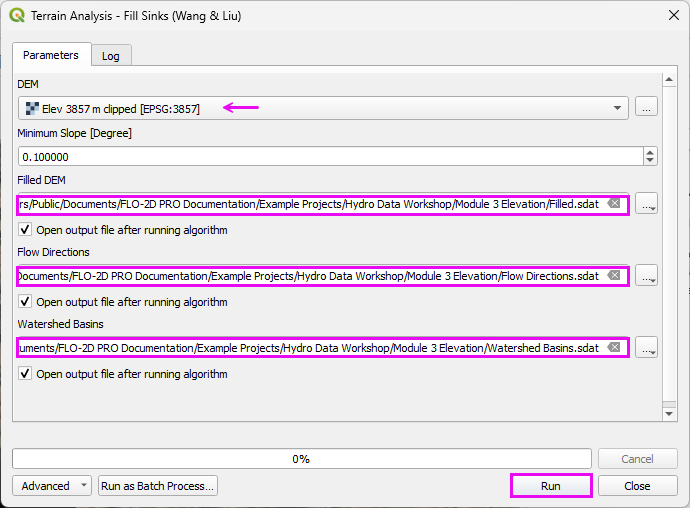
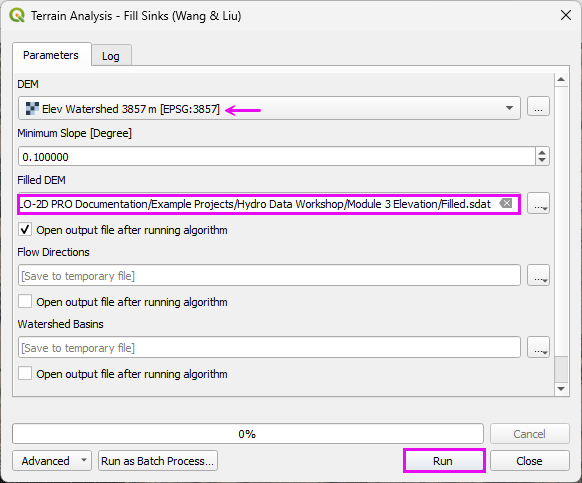
update watershed and fix hdf5 data

diff --git a/source/tutorials/hydrowkshp/hydrowkshp.rst b/source/tutorials/hydrowkshp/hydrowkshp.rst
@@ -174,8 +174,9 @@ The project should look like this:
 
 |hydrow015b|
 
-Module 2 - Delineate a Watershed
----------------------------------------
+Module 2 - Identify the Contributing Watershed
+------------------------------------------------
+
 
 Step 1: Load data
 +++++++++++++++++++++++++++++++++++++++++++++++++++
@@ -345,6 +346,17 @@ Step 1 - Clip the raster
 - Fill the form as shown and click Run.
 
 |hydrow025e|
+
+- Search the Toolbox for Saga Strahler.
+- Fill the form and click Run.
+
+|hydrow025f|
+
+- Run raster cacluator on the Stream Order raster to reduce the low level streams.
+
+|hydrow025g|
+
+
 
 
 
@@ -740,6 +752,8 @@ The plugin developer seems to be very responsive to requests for development.
 .. |hydrow025e| image:: ../img/hydrowkshp/hydrow025e.png
 
 .. |hydrow025f| image:: ../img/hydrowkshp/hydrow025f.png
+
+.. |hydrow025g| image:: ../img/hydrowkshp/hydrow025g.png
 
 .. |hydrow026| image:: ../img/hydrowkshp/hydrow026.png
 
